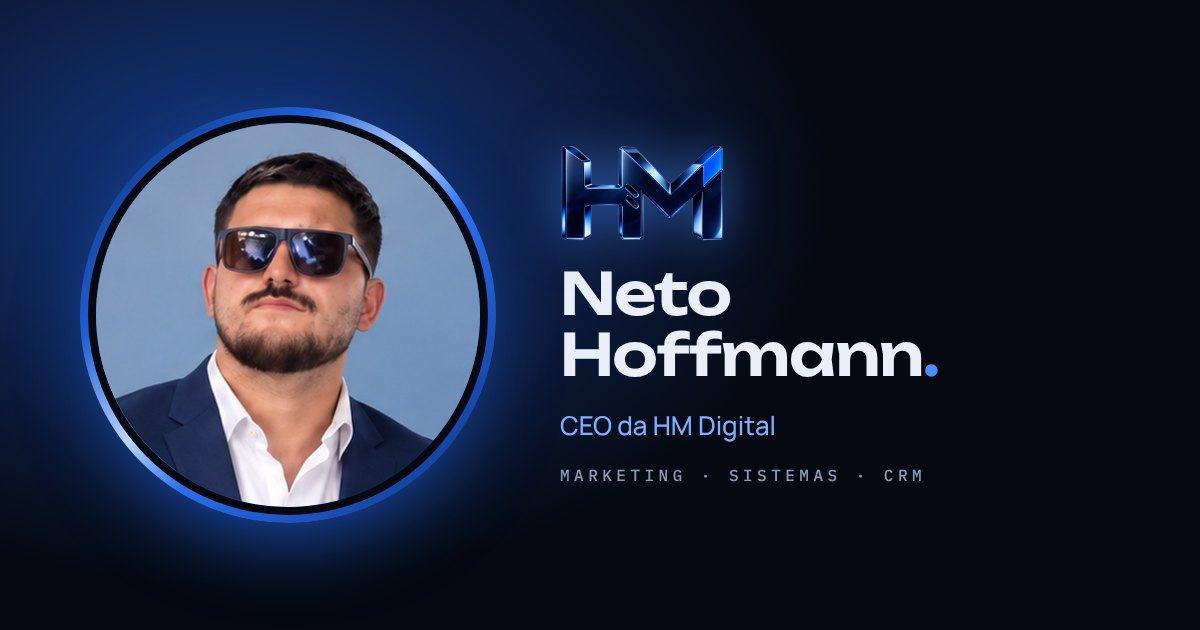
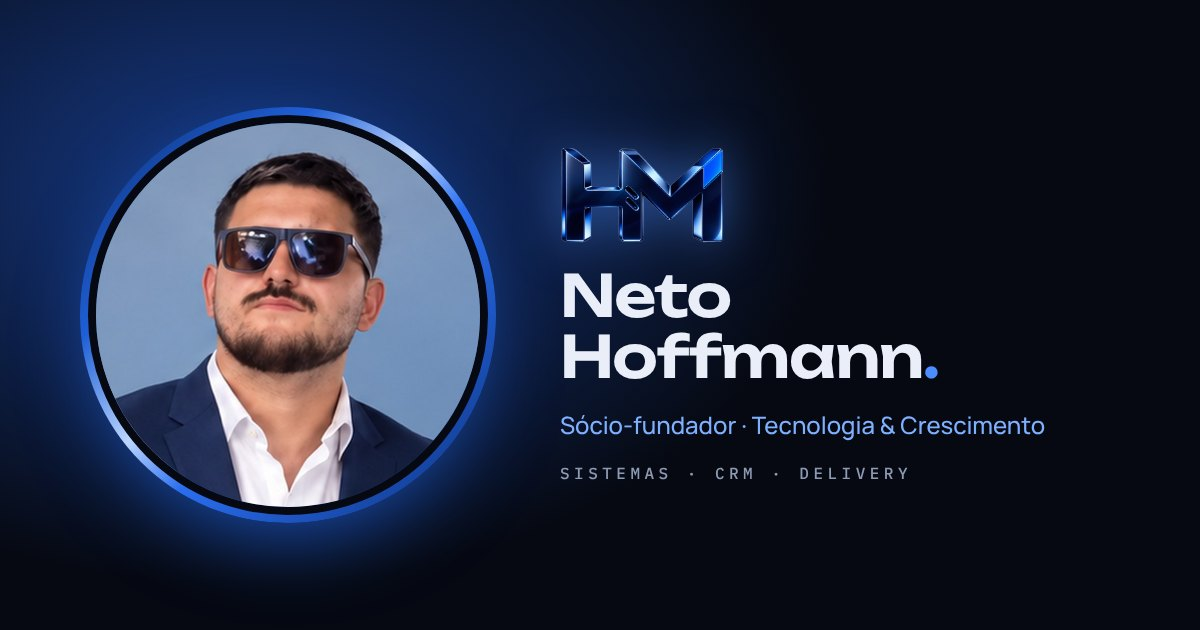
Troca CEO por cargo próprio de cada sócio e reescreve os textos
Claude-Session: https://claude.ai/code/session_01GSnqSHQkY71g6e2Ssbge3v

diff --git a/index.html b/index.html
@@ -3,38 +3,38 @@
 <head>
 <meta charset="utf-8">
 <meta name="viewport" content="width=device-width, initial-scale=1, viewport-fit=cover">
-<title>Neto Hoffmann · CEO da HM Digital</title>
-<meta name="description" content="Cartão digital de Neto Hoffmann, CEO da HM Digital.">
+<title>Neto Hoffmann · HM Digital</title>
+<meta name="description" content="Cartão digital de Neto Hoffmann, sócio-fundador da HM Digital.">
 <meta name="theme-color" content="#060912">
 <meta property="og:type" content="profile">
-<meta property="og:title" content="Neto Hoffmann · CEO da HM Digital">
-<meta property="og:description" content="Cartão digital de Neto Hoffmann, CEO da HM Digital.">
+<meta property="og:title" content="Neto Hoffmann · HM Digital">
+<meta property="og:description" content="Cartão digital de Neto Hoffmann, sócio-fundador da HM Digital.">
 <meta property="og:url" content="https://neto.hmdigitalgo.com/">
 <meta property="og:site_name" content="HM Digital">
 <meta property="og:locale" content="pt_BR">
 <!-- Prévia do link (WhatsApp etc.): a foto quadrada vem primeiro para o rosto aparecer na miniatura -->
-<meta property="og:image" content="https://neto.hmdigitalgo.com/assets/img/foto.jpg?v=5">
+<meta property="og:image" content="https://neto.hmdigitalgo.com/assets/img/foto.jpg?v=6">
 <meta property="og:image:type" content="image/jpeg">
 <meta property="og:image:width" content="600">
 <meta property="og:image:height" content="600">
-<meta property="og:image" content="https://neto.hmdigitalgo.com/assets/img/og.jpg?v=5">
+<meta property="og:image" content="https://neto.hmdigitalgo.com/assets/img/og.jpg?v=6">
 <meta property="og:image:width" content="1200">
 <meta property="og:image:height" content="630">
 <meta name="twitter:card" content="summary_large_image">
-<meta name="twitter:image" content="https://neto.hmdigitalgo.com/assets/img/og.jpg?v=5">
+<meta name="twitter:image" content="https://neto.hmdigitalgo.com/assets/img/og.jpg?v=6">
 <link rel="canonical" href="https://neto.hmdigitalgo.com/">
 <link rel="icon" href="/assets/img/favicon.svg" type="image/svg+xml">
 <link rel="preconnect" href="https://fonts.googleapis.com">
 <link rel="preconnect" href="https://fonts.gstatic.com" crossorigin>
 <link rel="stylesheet" href="https://fonts.googleapis.com/css2?family=Unbounded:wght@300;500;600;700&family=Manrope:wght@400;500;600&family=IBM+Plex+Mono:wght@400;500&display=swap">
-<link rel="stylesheet" href="/assets/css/style.css?v=5">
+<link rel="stylesheet" href="/assets/css/style.css?v=6">
 </head>
 <body>
 <noscript><p style="padding:24px">Ative o JavaScript para ver este cartão.</p></noscript>
 <script src="/assets/vendor/gsap-3.12.5.min.js"></script>
 <script src="/assets/vendor/qrcode-generator-1.4.4.js"></script>
-<script src="/assets/js/perfil.js?v=5"></script>
-<script src="/assets/js/intro.js?v=5"></script>
-<script src="/assets/js/card.js?v=5"></script>
+<script src="/assets/js/perfil.js?v=6"></script>
+<script src="/assets/js/intro.js?v=6"></script>
+<script src="/assets/js/card.js?v=6"></script>
 </body>
 </html>

diff --git a/assets/js/perfil.js b/assets/js/perfil.js
@@ -3,15 +3,15 @@
 window.HM_PROFILE = {
   slug: "neto",
   name: "Neto Hoffmann",
-  role: "CEO da HM Digital",
+  role: "Sócio-fundador · Tecnologia & Crescimento",
   photo: "/assets/img/foto.jpg",
   status: "Agenda aberta",
   bio: [
-      "Sou Neto Hoffmann, CEO da HM Digital. A gente ajuda empresas a crescer unindo marketing e tecnologia no mesmo lugar.",
-      "Na HM, cuidamos do marketing que traz o cliente e dos sistemas que organizam a operação: CRM, delivery, automações e sistemas sob medida.",
-      "Meu foco é fazer sua empresa ser encontrada, lembrada e escolhida, com processos que funcionam de verdade por trás."
+      "Sou o Neto, sócio-fundador da HM Digital. Cuido da parte que faz a empresa crescer por dentro: sistemas, CRM, automações e delivery.",
+      "Gosto de transformar processos bagunçados em ferramentas simples, que economizam tempo e mostram de onde vem cada venda.",
+      "Se a sua empresa já atrai clientes mas perde oportunidades no caminho, é comigo que você fala."
   ],
-  signature: "HM Digital. Marketing e tecnologia para crescer.",
+  signature: "Tecnologia que faz sua empresa crescer.",
   whatsapp: "5562984134046",          // DDI + DDD + número, só dígitos
   whatsappMsg: "Olá, Neto! Vim pelo seu cartão digital.",
   phone: "+55 62 98413-4046",

diff --git a/README.md b/README.md
@@ -1,6 +1,6 @@
 # Cartão digital · Neto Hoffmann
 
-Cartão digital de Neto, CEO da HM Digital, com a abertura animada do gimbal: ele entra pulando, sobe nas letras, amassa o "I" de DIGITAL e acende a tela, revelando o logo da HM.
+Cartão digital de Neto, sócio-fundador da HM Digital, com a abertura animada do gimbal: ele entra pulando, sobe nas letras, amassa o "I" de DIGITAL e acende a tela, revelando o logo da HM.
 
 ## Editar os dados
 
@@ -9,7 +9,7 @@ Tudo fica em `assets/js/perfil.js`. Os campos marcados com `TODO` ainda precisam
 - **Foto:** coloque o arquivo em `assets/img/foto.jpg` (quadrado, 600×600) e preencha `photo: "/assets/img/foto.jpg"`.
 - **Logo da HM:** coloque o arquivo em `assets/img/logo-hm.png` (ou `.svg`, fundo transparente) e preencha `logo` em `HM_COMPANY`. Ele aparece no topo, no rodapé e no brilho final da abertura.
 
-Este repositório e o do outro CEO usam o mesmo código. Só o `perfil.js`, o `index.html` (título) e as fotos mudam. Se alterar o visual ou a abertura, copie `assets/css`, `assets/js/card.js` e `assets/js/intro.js` para o outro repositório também.
+Este repositório e o do outro sócio usam o mesmo código. Só o `perfil.js`, o `index.html` (título) e as fotos mudam. Se alterar o visual ou a abertura, copie `assets/css`, `assets/js/card.js` e `assets/js/intro.js` para o outro repositório também.
 
 ## Abertura
 
